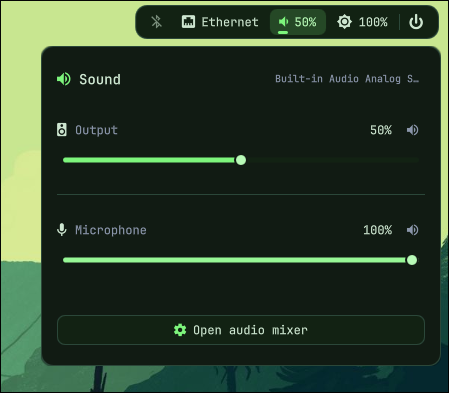
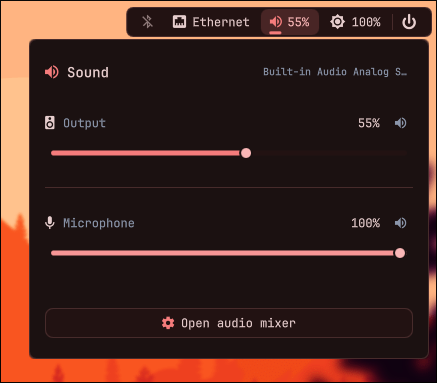
Refresh demo gallery, docs, compact OSD and vertical badge
Replace the demo screenshots with the new named gallery and rewrite the
README around it. Ship the accepted one-line OSD layout and the notification
badge position fix for left/right bars.

diff --git a/config/quickshell/osd/shell.qml b/config/quickshell/osd/shell.qml
@@ -44,12 +44,6 @@ ShellRoot {
             ? Theme.mauve
             : (kind === "mic" ? Theme.accentAlt : Theme.accent))
 
-    readonly property string title: kind === "brightness"
-        ? "Brightness"
-        : (kind === "kbd"
-            ? "Keyboard"
-            : (kind === "mic" ? "Microphone" : "Volume"))
-
     readonly property string glyph: {
         if (kind === "brightness")
             return "";
@@ -318,7 +312,7 @@ ShellRoot {
             id: card
 
             width: 340
-            height: 78
+            height: 52
             anchors.horizontalCenter: parent.horizontalCenter
             anchors.bottom: parent.bottom
             anchors.bottomMargin: 56
@@ -339,12 +333,12 @@ ShellRoot {
 
             Item {
                 anchors.fill: parent
-                anchors.margins: 16
+                anchors.margins: 14
 
                 Text {
                     id: iconText
                     anchors.left: parent.left
-                    anchors.top: parent.top
+                    anchors.verticalCenter: parent.verticalCenter
                     text: osd.glyph
                     font.family: Theme.font
                     font.pixelSize: 20
@@ -352,19 +346,9 @@ ShellRoot {
                 }
 
                 Text {
-                    anchors.left: iconText.right
-                    anchors.leftMargin: 10
-                    anchors.verticalCenter: iconText.verticalCenter
-                    text: osd.title
-                    font.family: Theme.mono
-                    font.pixelSize: 12
-                    font.weight: Font.DemiBold
-                    color: Theme.subtext
-                }
-
-                Text {
+                    id: valueLabel
                     anchors.right: parent.right
-                    anchors.verticalCenter: iconText.verticalCenter
+                    anchors.verticalCenter: parent.verticalCenter
                     text: osd.valueText
                     font.family: Theme.mono
                     font.pixelSize: 14
@@ -374,9 +358,11 @@ ShellRoot {
 
                 Rectangle {
                     id: track
-                    anchors.left: parent.left
-                    anchors.right: parent.right
-                    anchors.bottom: parent.bottom
+                    anchors.left: iconText.right
+                    anchors.leftMargin: 12
+                    anchors.right: valueLabel.left
+                    anchors.rightMargin: 12
+                    anchors.verticalCenter: parent.verticalCenter
                     height: 6
                     radius: 3
                     color: Theme.surfaceAlt

diff --git a/config/quickshell/topbar/components/Bar.qml b/config/quickshell/topbar/components/Bar.qml
@@ -926,9 +926,10 @@ PanelWindow {
 
             Rectangle {
                 visible: bar.clockBadgeText !== ""
-                anchors.top: parent.top
-                anchors.right: parent.right
-                anchors.margins: 2
+                anchors.bottom: parent.top
+                anchors.bottomMargin: 7
+                anchors.horizontalCenter: parent.horizontalCenter
+                z: 2
                 width: 16
                 height: 16
                 radius: width / 2

diff --git a/README.md b/README.md
@@ -1,12 +1,12 @@
 # cyan1de
 
-A clean, dark, portable **Hyprland + Quickshell** desktop configuration for Arch-based systems. It ships with floating pill panels, a full graphical settings app, a launcher, emoji picker, notification history, OSD, lockscreen, and sensible default applications.
+A clean, dark, portable **Hyprland + Quickshell** desktop configuration for Arch-based systems. It ships with floating pill panels, a full graphical settings app, a launcher, emoji picker, notification history, a compact OSD, lockscreen, and sensible default applications.
 
 The shipped defaults use JetBrainsMono Nerd Font, a dark surface palette, and a blue-to-teal window-border gradient. Quickshell surfaces are opaque for crisp text; blur is limited to Hyprland windows and Alacritty.
 
-![cyan1de default desktop showcase](demopics/default_app_showcase.png)
+![cyan1de desktop with the default applications](demopics/default_apps.png)
 
-*Default desktop with the shipped panel and applications.*
+*The default desktop with the shipped panel and applications.*
 
 ---
 
@@ -16,12 +16,13 @@ The shipped defaults use JetBrainsMono Nerd Font, a dark surface palette, and a 
 - Panel on **top / bottom / left / right**, on **all displays** or one selected monitor
 - Ten workspaces, scratchpad, floating-window controls, and per-monitor fullscreen bar hiding
 - Centered clock, system tray, Bluetooth, network, volume, brightness, battery, and power controls
+- On left/right bars, the clock stacks the date and time and the unread notification badge floats just above the calendar element
 - Software-brightness monitors dim the panel, topbar popups, other popups and cursor without affecting DDC-controlled displays
 - Calendar popup with media controls and notification history
 - Notification banners with hover pause, history, low-battery warnings, and configurable placement
-- App launcher with application, file, and web-search actions
-- Emoji picker with search and clipboard paste
-- On-screen display for volume, brightness, keyboard brightness, and night light
+- Single-line OSD for volume, brightness, keyboard brightness, and night light
+- App launcher with application, file, calculator, and web-search actions
+- Emoji picker with search, clipboard history, and paste
 - Lockscreen with a crash watchdog
 - Graphical settings app that rewrites the managed Hyprland Lua files
 - No Quickshell blur layers; Hyprland blur and Alacritty blur remain configurable
@@ -86,9 +87,7 @@ The installer sets these defaults when available:
 | PDF viewer | Papers |
 | Browser | Firefox |
 
-![Default applications showcase](demopics/default_app_showcase.png)
-
-*The default applications and desktop layout are selected to work together out of the box.*
+The default applications and desktop layout are selected to work together out of the box; the result is shown at the top of this README.
 
 ---
 
@@ -114,7 +113,7 @@ Change this in **Settings → Appearance → Panel → Layout**:
 
 The corners and wrap options are layout choices, not separate toggles. Existing configs that used the old **Unified bar + Corners on** combination are migrated to `unifiedCorners`, and configs saved with the earlier side-ramp option are migrated to `unifiedWrap` automatically.
 
-The panel can sit on any edge and can follow all monitors or a single display. On left/right edges the clock shows a stacked date and time instead of a horizontal label.
+The panel can sit on any edge and can follow all monitors or a single display. On left/right edges the clock shows a stacked date and time instead of a horizontal label. The unread notification badge sits just above that clock element rather than being buried inside it.
 
 The reserved bar area follows **Outer gaps**. Detached layouts keep one outer gap between the screen edge and the bar; attached layouts sit flush. In both cases the gap between the bar and window space matches the normal window outer gap.
 
@@ -126,17 +125,33 @@ The bar hides automatically on a monitor when that monitor’s active workspace 
 
 ## App launcher
 
-Press **Super + Space** to open the launcher. It supports application search, file search, and web queries. Results can be launched directly or opened with the configured terminal and helper apps.
+Press **Super + Space** to open the launcher. It supports application search, file search, calculator results, and web queries. Results can be launched directly or opened with the configured terminal and helper apps.
 
-![Application launcher](demopics/app_launcher.png)
+![Application launcher](demopics/launcher.png)
 
-*Application launcher with search and actions.*
+*Application search and quick actions.*
+
+![Launcher calculator](demopics/launcher_calculation.png)
+
+*Calculator results appear inline.*
+
+![Launcher file search](demopics/launcher_file_search.png)
+
+*File search opens results with the configured apps.*
+
+![Launcher web search](demopics/launcher_web_search.png)
+
+*Web queries can be sent straight to the browser.*
 
 ---
 
 ## Calendar and notifications
 
 Click the clock to open the calendar. The popup can include media controls and notification history, and its layout and width are configurable in **Settings → Notifications → Calendar**.
+
+![Calendar element and notification badge](demopics/calendar_element.png)
+
+*The clock, calendar popup, and unread notification badge.*
 
 Notifications support:
 
@@ -147,10 +162,6 @@ Notifications support:
 - app icon and app name
 - low-battery warnings
 - notification history inside the calendar
-
-![Calendar popup with notification history](demopics/calendar_pop_up.png)
-
-*Calendar popup with notification history.*
 
 ---
 
@@ -173,11 +184,7 @@ Press **Super + comma** to open the settings app. It includes pages for:
 
 Hover any setting name for a short explanation of what it does. Ambiguous names such as **Layout** and **Sensitivity** have page-specific help text.
 
-![Settings app](demopics/settings_app.png)
-
-*The settings app home screen.*
-
-![Easy-to-use settings](demopics/easy_to_use_settings.png)
+![Easy-to-configure settings](demopics/easy_to_configure_settings.png)
 
 *Grouped controls make appearance and behavior changes straightforward.*
 
@@ -216,11 +223,11 @@ The **Monitors** page can arrange displays, set scale and rotation, enable or di
 
 ## Emoji picker
 
-Press **Super + period** to open the emoji picker. Search results can be copied to the clipboard or pasted into the focused application.
+Press **Super + period** to open the emoji picker. Search results can be copied to the clipboard or pasted into the focused application, and copied emoji are kept in a local clipboard history.
 
-![Emoji picker](demopics/emoji_picker.png)
+![Emoji picker with clipboard history](demopics/emoji_picker_clipboard_history.png)
 
-*Searchable emoji picker.*
+*Searchable emoji picker with clipboard history.*
 
 ---
 
@@ -228,9 +235,23 @@ Press **Super + period** to open the emoji picker. Search results can be copied 
 
 The default setup includes ten workspaces, a scratchpad, dwindle tiling, floating toggles, pseudo-tiling, split-direction toggling, and configurable window borders with a blue-to-teal gradient.
 
-![Window management](demopics/window_management.png)
+![Eye-candy window management](demopics/eye_candy_window_management.png)
 
 *Workspaces, borders, gaps, and window layout in use.*
+
+![Workspace switcher](demopics/workspace_switcher.png)
+
+*Switching between workspaces.*
+
+---
+
+## Developer friendly
+
+Alacritty, the terminal-first launcher actions, and the compact OSD make this a comfortable daily driver for development. Window blur and transparency stay configurable without adding blur to Quickshell surfaces.
+
+![Great for developers](demopics/great_for_developers.png)
+
+*A terminal-focused desktop with the full panel and window effects available.*
 
 ---
 
@@ -307,3 +328,4 @@ Quickshell runs as separate named sessions: `topbar`, `osd`, `launcher`, `emoji`
 - Quickshell panels are intentionally opaque. The available blur options are **Hyprland blur** and **Alacritty blur** in Settings.
 - If a panel looks wrong after upgrading, remove the old `~/.config/quickshell` and `~/.config/hypr` directories and reinstall; the installer backs them up first.
 - Popup content uses a shared fixed size; the calendar has its own fixed height to keep month switching stable.
+- Demo screenshots live in `demopics/`.
